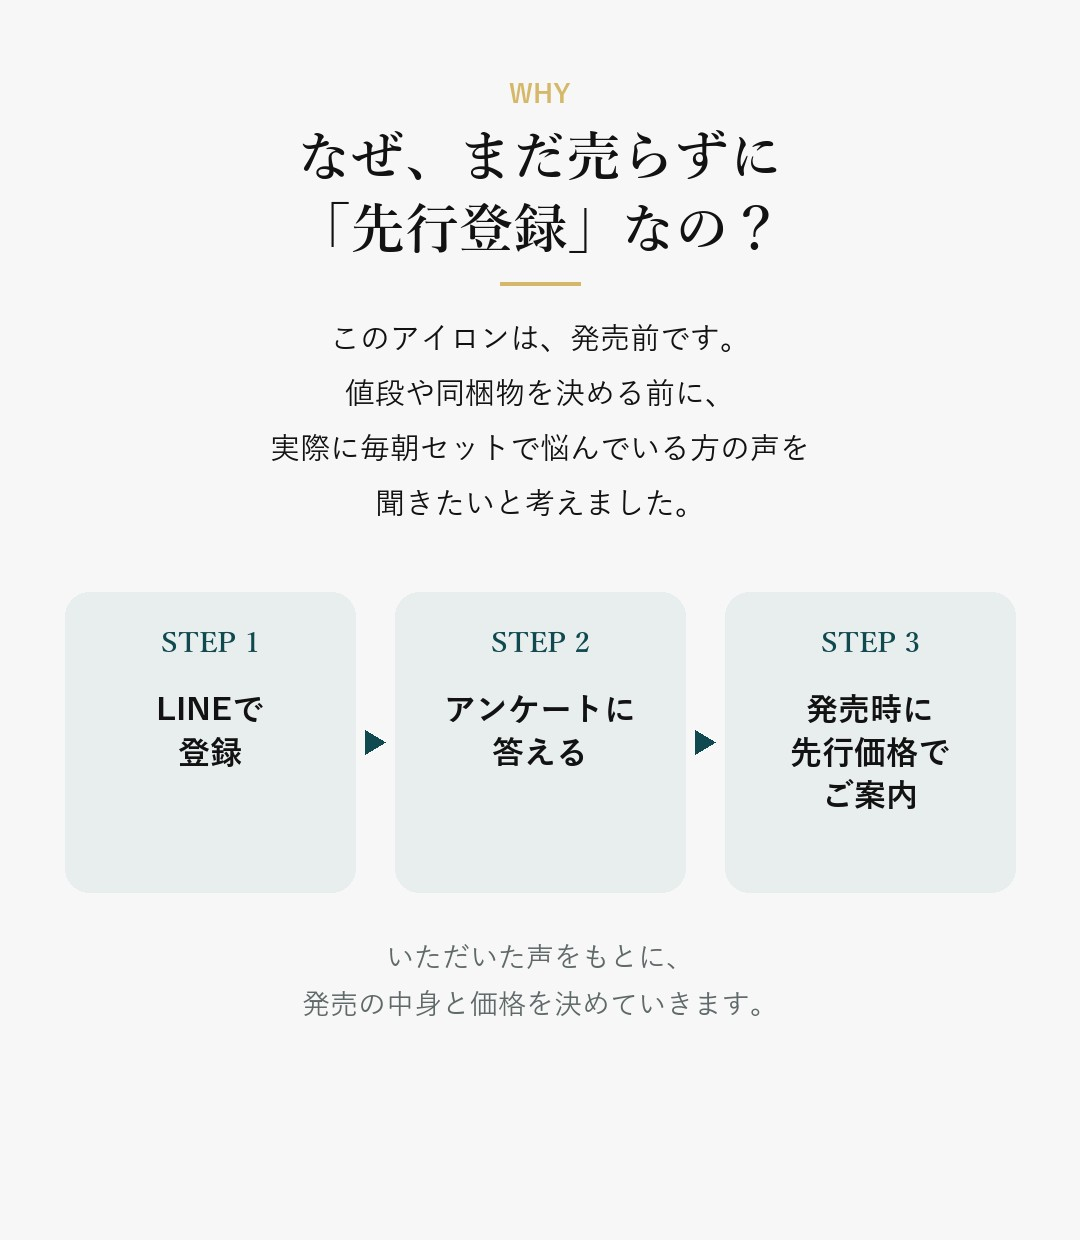
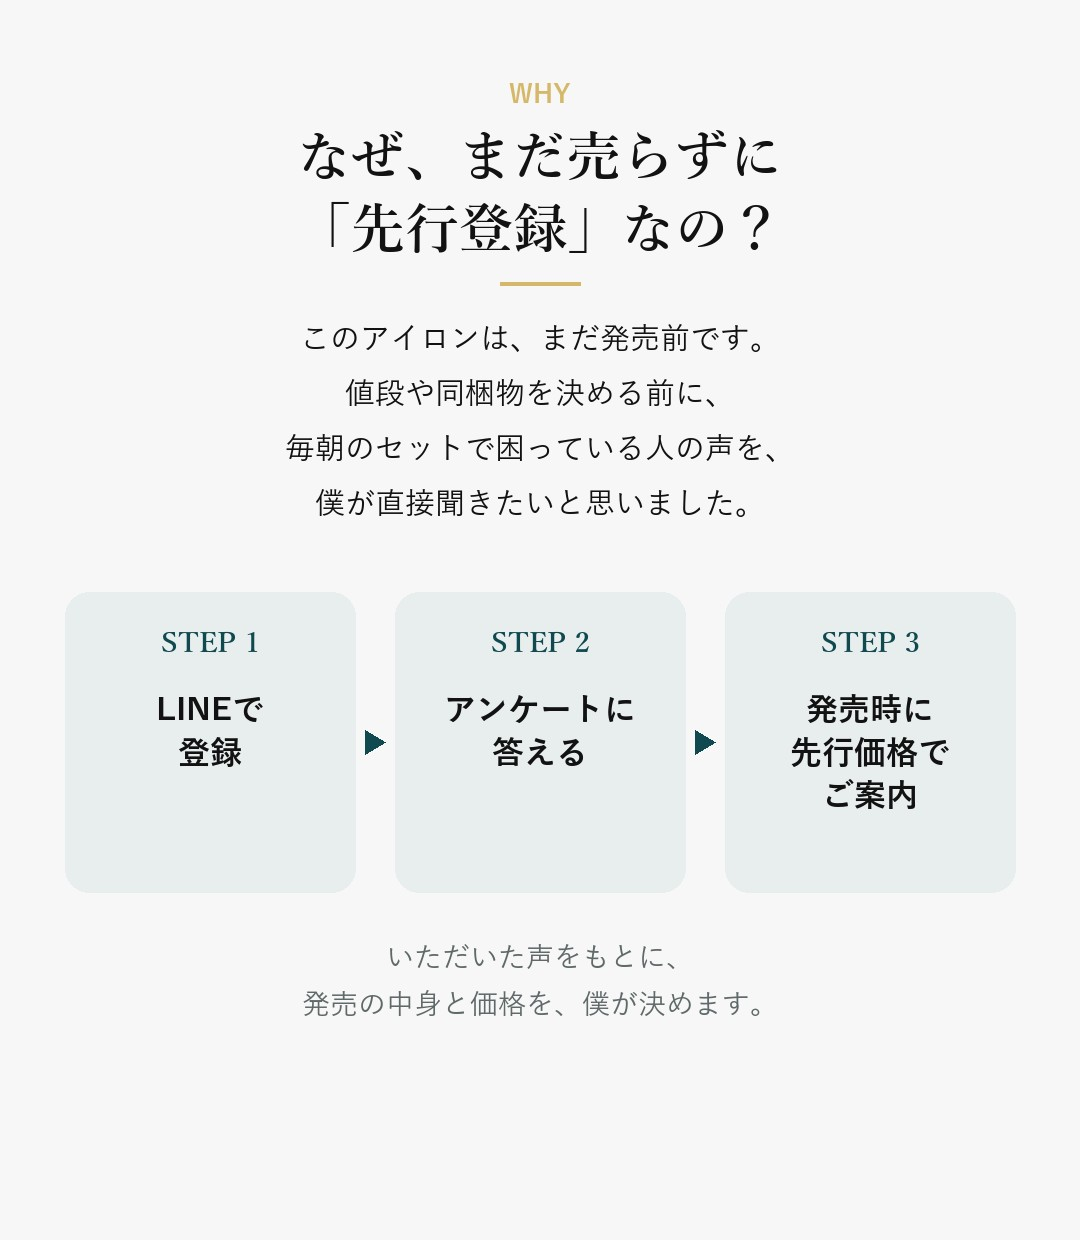
STORYをヘアアイロン社長の一人称に／先行登録を社長の言葉に／「作った人」カードを追加

Changed region(s): [[0.2444, 0.3371, 0.7333, 0.429], [0.3056, 0.2452, 0.7028, 0.3065], [0.5194, 0.7968, 0.6417, 0.8274]]

diff --git a/a/index.html b/a/index.html
@@ -39,7 +39,7 @@ details ul{padding-left:18px}
 <img src="lp04.jpg" alt="データ アイロンを使う男は増えている" loading="lazy">
 <img src="lp05.jpg" alt="ストーリー1 顔は変えられない" loading="lazy">
 <img src="lp06.jpg" alt="ストーリー2 先に気づくのは周り" loading="lazy">
-<img src="lp07.jpg" alt="だから作った" loading="lazy">
+<img src="lp07.jpg" alt="だから作った ヘアアイロン社長のストーリー" loading="lazy">
 <img src="lp08.jpg" alt="強み1 ひと流しで毛流れ" loading="lazy">
 <img src="lp09.jpg" alt="強み2 3ステップ" loading="lazy">
 <img src="lp10.jpg" alt="強み3 見せる道具" loading="lazy">
@@ -49,7 +49,8 @@ details ul{padding-left:18px}
 <img src="lp14.jpg" alt="発売と価格" loading="lazy">
 <img src="lp15.jpg" alt="なぜ先行登録" loading="lazy">
 <img src="lp16.jpg" alt="安心して登録するために" loading="lazy">
-<a href="https://lin.ee/XXXXXXX" class="line-link"><img src="lp17.jpg" alt="LINE登録" loading="lazy"></a>
+<img src="lp17.jpg" alt="作った人 ヘアアイロン社長" loading="lazy">
+<a href="https://lin.ee/XXXXXXX" class="line-link"><img src="lp18.jpg" alt="LINE登録" loading="lazy"></a>
 
 <section class="info">
   <h2>運営者情報</h2>
